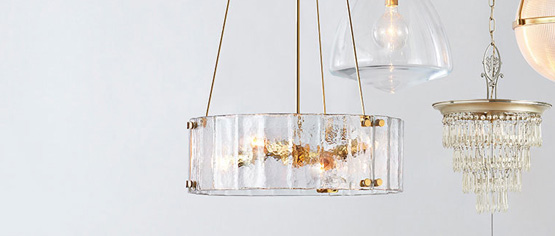
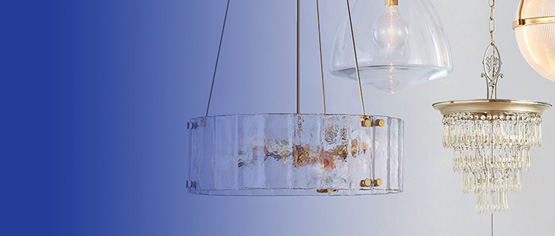
1st fix

diff --git a/index.html b/index.html
@@ -182,7 +182,6 @@
       <div class="banners">
         <div class="banner">
           <a href="#">
-            <div class="overlay"></div>
             <img src="images/banner1.jpg" class="img-responsive" alt="banner">
             <div class="banner-info">
               <h1 class="banner-head">إضاءة حسب نوع الإنارة</h1>
@@ -192,8 +191,7 @@
         </div>
         <div class="banner">
           <a href="#">
-            <div class="overlay"></div>
-            <img src="images/banner1.jpg" class="img-responsive" alt="banner">
+            <img src="images/banner2.jpg" class="img-responsive" alt="banner">
             <div class="banner-info">
               <h1 class="banner-head">إضاءة حسب أماكن الإستخدام</h1>
               <a href="#" class="banner-anchor">تسوق الان</a>

diff --git a/index-en.html b/index-en.html
@@ -181,7 +181,6 @@
       <div class="banners">
         <div class="banner">
           <a href="#">
-            <div class="overlay"></div>
             <img src="images/banner1.jpg" class="img-responsive" alt="banner">
             <div class="banner-info">
               <h1 class="banner-head">Lighting by type of lighting</h1>
@@ -191,8 +190,7 @@
         </div>
         <div class="banner">
           <a href="#">
-            <div class="overlay"></div>
-            <img src="images/banner1.jpg" class="img-responsive" alt="banner">
+            <img src="images/banner2.jpg" class="img-responsive" alt="banner">
             <div class="banner-info">
               <h1 class="banner-head">Lighting by location</h1>
               <a href="#" class="banner-anchor">Shop Now</a>

diff --git a/css/sass/pages/_home.scss b/css/sass/pages/_home.scss
@@ -32,16 +32,6 @@
         @include transition(all 0.5s ease-in-out);
     }
 
-    .overlay {
-        position: absolute;
-        top: 0;
-        left: 0;
-        width: 100%;
-        height: 100%;
-        background-image: linear-gradient(to right, $seccolor, transparent);
-        z-index: 5;
-    }
-
     &:hover {
         img {
             transform: scale(1.2) rotate(5deg);

diff --git a/css/main.css b/css/main.css
@@ -967,15 +967,6 @@ html[dir=ltr] .items {
   -webkit-transition: all 0.5s ease-in-out;
   transition: all 0.5s ease-in-out;
 }
-.banner .overlay {
-  position: absolute;
-  top: 0;
-  left: 0;
-  width: 100%;
-  height: 100%;
-  background-image: linear-gradient(to right, #233d98, transparent);
-  z-index: 5;
-}
 .banner:hover img {
   transform: scale(1.2) rotate(5deg);
 }
